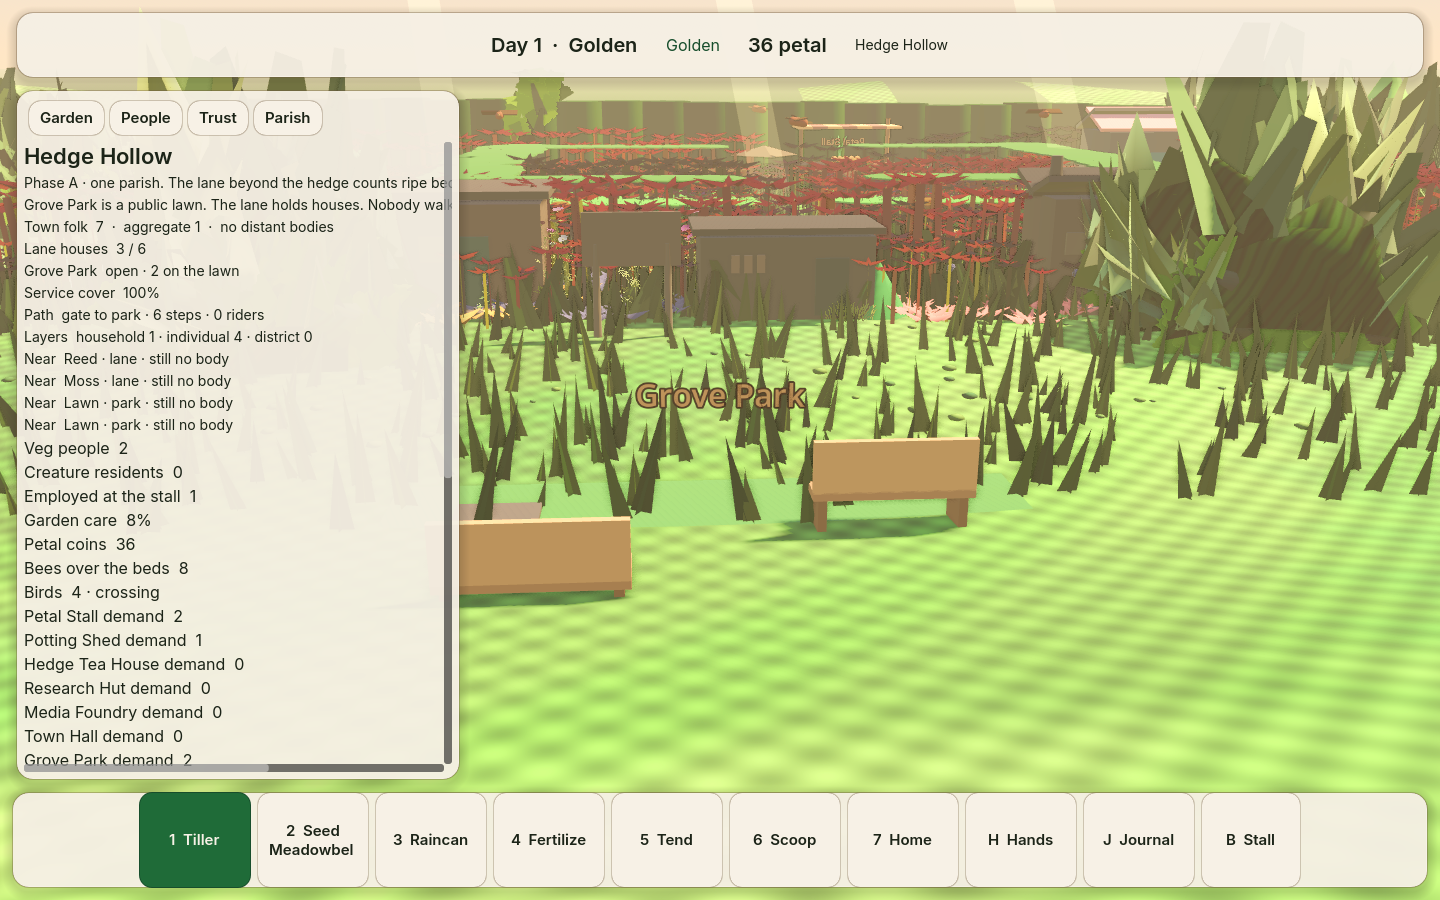
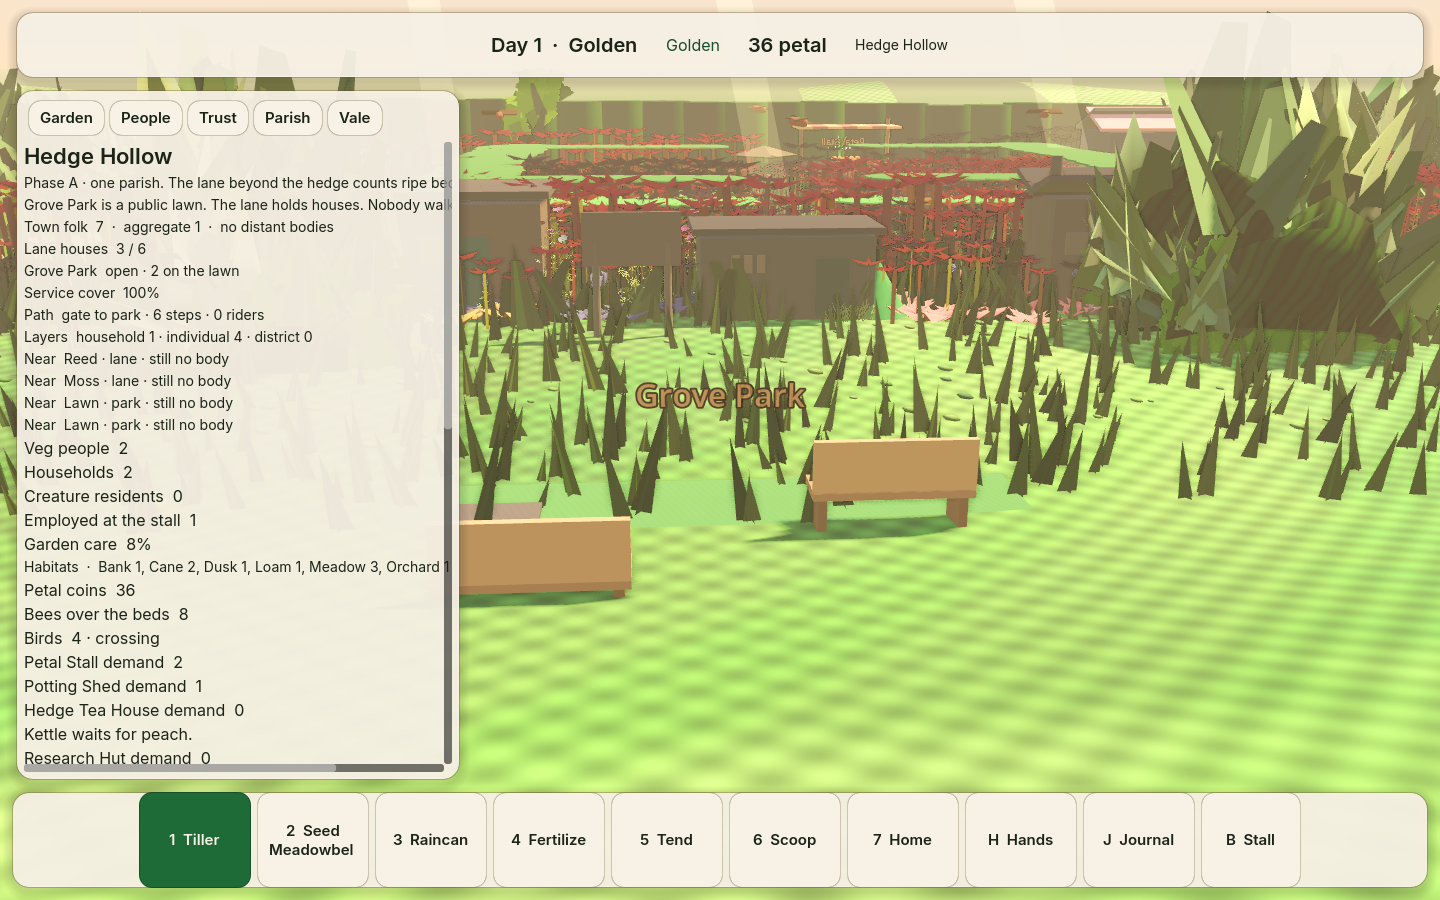
Record PETAL-06 town fidelity on the 08 build.
f4c63d3 town_sim, town.json, and test_town already match 08.
Recapture Grove Park and the parish town page, and log TOWN_OK
plus PETAL_TOWN_SHOT_OK in campaign state.

diff --git a/docs/PETAL_CAMPAIGN_STATE.md b/docs/PETAL_CAMPAIGN_STATE.md
@@ -22,7 +22,7 @@ Qwen3-1.7B DPO-merged Q8_0 GGUF on llama.cpp CPU. `POST /decide {question, conte
 | 03 | `petal/03-jelly` | `c3f55dd` | ported | grab, stretch, throw, bounce |
 | 04 | `petal/04-residents` | `6b48d2e` | ported | needs, tea, memories, no porch overshoot |
 | 05 | `petal/05-economy` | `b5b90a6` | ported | kettle tea chain (peach+bell, cap 3, stop/restart) |
-| 06 | `petal/06-town` | `f4c63d3` | ported | South Lane, Grove Park, near households |
+| 06 | `petal/06-town` | `f4c63d3` | ported | South Lane, Grove Park, promote/demote, no spawned bodies |
 | 07 | `petal/07-region` | `cd45eb4` | ported | Petal Vale carts, world fidelity |
 | 08 | `petal/08-integration` | `29e278b` | — | coherent Hedge Hollow |
 
@@ -34,11 +34,13 @@ Playable canonical build. Kenney grove (`scripts/main.gd`, `scripts/sim/petal_*`
 
 05 kettle (`b5b90a6`, PR #7): mill APIs already on 08. `SYSTEMS_OK` mill cap-3 recover on this tree. `PETAL_KETTLE_SHOT_OK` recaptured here: `docs/screenshots/kettle_brew.png` (porch steam) and `kettle_crate.png` (stall: Hedge tea sits on the crate, Sell 22 (1)). Qwen3-VL unused.
 
+06 town (`f4c63d3`, PR #9): `town.json` / `town_sim.gd` / `test_town.gd` match the tip. `TOWN_OK` (promote/demote ids), `SYSTEMS_OK`, `PETAL_RULES_OK`. `PETAL_TOWN_SHOT_OK` recaptured here: `town_park.png` (Grove Park sign, lawn, benches, no bodies) and `town_parish.png` (Town folk 7, Lane 3/6, Park open · 2, Layers household 1 · individual 4 · district 0, Near Reed/Moss/Lawn still no body). Catalog Grove Park stays `active: false`.
+
 03 land frame: one new overhead pin (`_pin_overhead`, pitch 62) after the air shot. Follow-cam land was already 3-strike abandoned on 03. `JELLY_PLAY_OK` (`land_y` finite, feel `air` at 0.49). `docs/screenshots/jelly_land.png` still looks into crest foliage; body not in frame. No further camera variants.
 
 ## Tests (`29e278b`, Godot 4.8-dev6 llvmpipe, dummy ALSA)
 
-`PETAL_RULES_OK` `SYSTEMS_OK` `PETAL_CONTRACTS_OK` `FOUNDATION_OK` `JELLY_FEEL_OK` `RESIDENT_LIFE_OK` `TOWN_OK` `REGION_OK` `PETAL_QA_SCRIPTS_OK` `PETAL_INTEGRATE_OK` `PETAL_SELFPLAY_OK` `PETAL_SMOKE_OK` `JELLY_PLAY_OK` `PETAL_KETTLE_SHOT_OK`
+`PETAL_RULES_OK` `SYSTEMS_OK` `PETAL_CONTRACTS_OK` `FOUNDATION_OK` `JELLY_FEEL_OK` `RESIDENT_LIFE_OK` `TOWN_OK` `REGION_OK` `PETAL_QA_SCRIPTS_OK` `PETAL_INTEGRATE_OK` `PETAL_SELFPLAY_OK` `PETAL_SMOKE_OK` `JELLY_PLAY_OK` `PETAL_KETTLE_SHOT_OK` `PETAL_TOWN_SHOT_OK`
 
 Qwen3-VL is not operational. Frames under `docs/screenshots/`. Baseline leak warnings remain.
 

diff --git a/docs/lanes/08.md b/docs/lanes/08.md
@@ -20,6 +20,7 @@
   - `PETAL_SMOKE_OK` pass
   - `JELLY_PLAY_OK` pass (land frame still missed the body)
   - `PETAL_KETTLE_SHOT_OK` pass on 08 (`b5b90a6` kettle chain)
+  - `PETAL_TOWN_SHOT_OK` pass on 08 (`f4c63d3` Grove Park + promote/demote)
   - Kenney `tests/smoke.gd` is duplicate-legacy
 - blockers: none from 01–07. Qwen3-VL not operational. Jelly land still not in `jelly_land.png` after one overhead pin; physics asserted.
 - requests: `data/venues.json` still marks tea house / hut / foundry / hall `active: false` while the garden builds them. Flip the catalog to match; do not rebuild the rooms.
